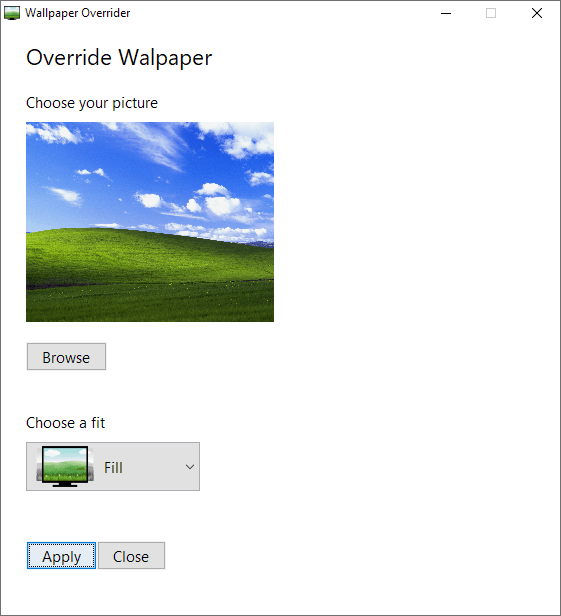
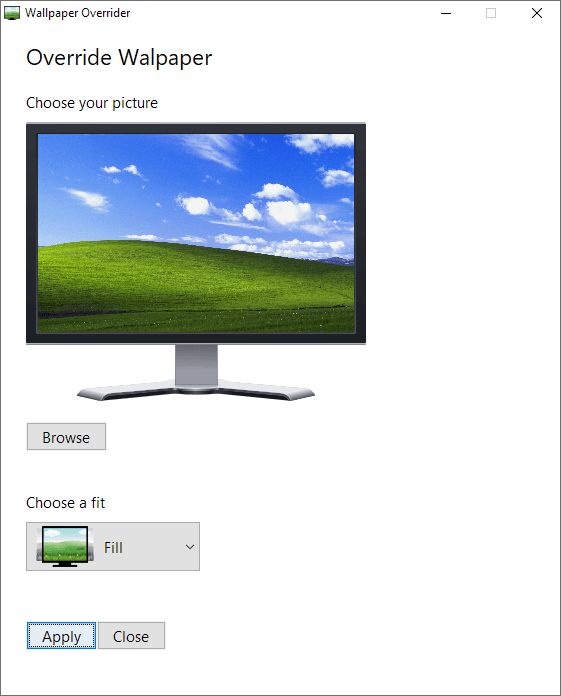
Better preview

diff --git a/src/main/java/fr/gravade/wallpaperoverrider/ImagePanel.java b/src/main/java/fr/gravade/wallpaperoverrider/ImagePanel.java
@@ -19,19 +19,33 @@ along with Wallpaper Overrider.  If not, see <https://www.gnu.org/licenses/>.
 package fr.gravade.wallpaperoverrider;
 
 import java.awt.*;
+import java.awt.image.BufferedImage;
 import java.io.File;
 import javax.swing.*;
 
 class ImagePanel extends JPanel {
 
+  private static final Image MONITOR =
+      Toolkit.getDefaultToolkit().getImage(App.class.getResource("/images/monitor.png"));
+
   private static final Image NO_IMAGE =
       Toolkit.getDefaultToolkit().getImage(App.class.getResource("/images/missing.png"));
 
+  private static final int MONITOR_X = 12;
+  private static final int MONITOR_Y = 12;
+  private static final int MONITOR_WIDTH = 316;
+  private static final int MONITOR_HEIGHT = 198;
+  private static final double MONITOR_RATIO = (double) MONITOR_WIDTH / (double) MONITOR_HEIGHT;
+  private static final int MONITOR_STD_WIDTH = Toolkit.getDefaultToolkit().getScreenSize().width;
+  private static final double STD_SCALE_FACTOR =
+      (double) MONITOR_WIDTH / (double) MONITOR_STD_WIDTH;
+
   private Image image = NO_IMAGE;
+  private WallpaperStyle style = WallpaperStyle.FILL;
 
   ImagePanel() {
     setBackground(Color.WHITE);
-    setPreferredSize(new Dimension(300, 200));
+    setPreferredSize(new Dimension(340, 280));
   }
 
   void setImage(File imageFile) {
@@ -43,25 +57,97 @@ class ImagePanel extends JPanel {
     paintImmediately(0, 0, getWidth(), getHeight());
   }
 
+  public void setStyle(WallpaperStyle style) {
+    this.style = style;
+    paintImmediately(0, 0, getWidth(), getHeight());
+  }
+
   @Override
   protected void paintComponent(Graphics g) {
     super.paintComponent(g);
+    g.drawImage(MONITOR, 0, 0, MONITOR.getWidth(this), MONITOR.getHeight(this), this);
+
+    double imgRatio = (double) image.getWidth(this) / (double) image.getHeight(this);
+    int imgWidth = MONITOR_WIDTH;
+    int imgHeight = MONITOR_HEIGHT;
+    int x = MONITOR_X;
+    int y = MONITOR_Y;
+    Image img = image;
+
     if (image != null) {
-      int imgWidth, imgHeight;
-      double contRatio = (double) getWidth() / (double) getHeight();
-      double imgRatio = (double) image.getWidth(this) / (double) image.getHeight(this);
+      switch (style) {
+        case CENTER:
+          img = getCenterImage();
+          break;
 
-      // width limited
-      if (contRatio < imgRatio) {
-        imgWidth = getWidth();
-        imgHeight = (int) (getWidth() / imgRatio);
+        case FILL:
+        case SPAN:
+          img = getFillImage(imgRatio);
+          break;
 
-        // height limited
-      } else {
-        imgWidth = (int) (getHeight() * imgRatio);
-        imgHeight = getHeight();
+        case TILE:
+          img = getTileImage();
+          break;
+
+        case FIT:
+          if (MONITOR_RATIO < imgRatio) { // width limited
+            imgHeight = (int) (MONITOR_WIDTH / imgRatio);
+            y = MONITOR_Y + (MONITOR_HEIGHT - imgHeight) / 2;
+          } else { // height limited
+            imgWidth = (int) (MONITOR_HEIGHT * imgRatio);
+            x = MONITOR_X + (MONITOR_WIDTH - imgWidth) / 2;
+          }
+          break;
+
+        case STRETCH:
+        default:
+          // nothing
+          break;
       }
-      g.drawImage(image, 0, 0, imgWidth, imgHeight, this);
+
+      g.drawImage(img, x, y, imgWidth, imgHeight, this);
     }
+  }
+
+  private Image getCenterImage() {
+    int imgWidth = (int) (image.getWidth(this) * STD_SCALE_FACTOR);
+    int imgHeight = (int) (image.getHeight(this) * STD_SCALE_FACTOR);
+    return getTempImage(imgWidth, imgHeight);
+  }
+
+  private Image getFillImage(double imgRatio) {
+    int imgWidth, imgHeight;
+    if (MONITOR_RATIO < imgRatio) { // width limited
+      imgWidth = (int) (MONITOR_HEIGHT * imgRatio);
+      imgHeight = MONITOR_HEIGHT;
+    } else { // height limited
+      imgWidth = MONITOR_WIDTH;
+      imgHeight = (int) (MONITOR_WIDTH / imgRatio);
+    }
+    return getTempImage(imgWidth, imgHeight);
+  }
+
+  private Image getTempImage(int imgWidth, int imgHeight) {
+    int x = (MONITOR_WIDTH - imgWidth) / 2;
+    int y = (MONITOR_HEIGHT - imgHeight) / 2;
+    Image img = new BufferedImage(MONITOR_WIDTH, MONITOR_HEIGHT, BufferedImage.TYPE_INT_ARGB);
+    if (imgWidth > 0 && imgHeight > 0) {
+      img.getGraphics().drawImage(image, x, y, imgWidth, imgHeight, this);
+    }
+    return img;
+  }
+
+  private Image getTileImage() {
+    int imgWidth = (int) (image.getWidth(this) * STD_SCALE_FACTOR);
+    int imgHeight = (int) (image.getHeight(this) * STD_SCALE_FACTOR);
+    Image img = new BufferedImage(MONITOR_WIDTH, MONITOR_HEIGHT, BufferedImage.TYPE_INT_ARGB);
+    if (imgWidth > 0 && imgHeight > 0) {
+      for (int x = 0; x < MONITOR_WIDTH; x += imgWidth) {
+        for (int y = 0; y < MONITOR_HEIGHT; y += imgHeight) {
+          img.getGraphics().drawImage(image, x, y, imgWidth, imgHeight, this);
+        }
+      }
+    }
+    return img;
   }
 }

diff --git a/src/main/java/fr/gravade/wallpaperoverrider/WallpaperChoiceDialog.java b/src/main/java/fr/gravade/wallpaperoverrider/WallpaperChoiceDialog.java
@@ -141,7 +141,9 @@ class WallpaperChoiceDialog extends JFrame implements ActionListener {
               forcedImagePanel.setImage(file);
             });
 
-    styleComboBox.setSelectedItem(Util.getCurrentForcedWallpaperStyle());
+    WallpaperStyle currentStyle = Util.getCurrentForcedWallpaperStyle();
+    styleComboBox.setSelectedItem(currentStyle);
+    forcedImagePanel.setStyle(currentStyle);
 
     pack();
     setResizable(false);
@@ -176,6 +178,7 @@ class WallpaperChoiceDialog extends JFrame implements ActionListener {
       onBrowseButton();
     } else if (source == styleComboBox) {
       applyButton.setEnabled(true);
+      forcedImagePanel.setStyle((WallpaperStyle) styleComboBox.getSelectedItem());
     }
   }
 
